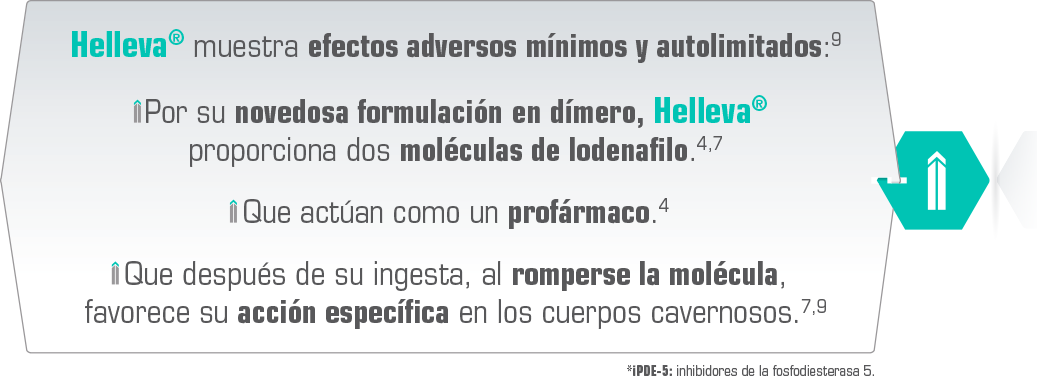
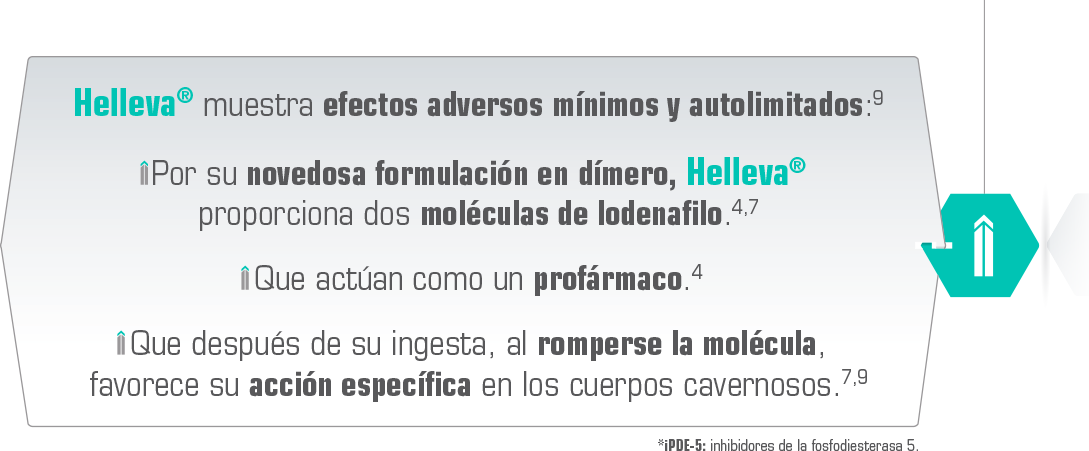
Slide 4 cambios

diff --git a/css/delays.css b/css/delays.css
@@ -110,15 +110,28 @@
 	-o-animation-delay: 3s;
 	animation-delay: 3s;
 }
-#img5, #img8, #img24, #img29{
+#img5, #img8,#img29{
 	webkit-animation-delay: 3.5s;
 	-o-animation-delay: 3.5s;
 	animation-delay: 3.5s;
 }
-#img16, #img23{
+#img24{
+	webkit-animation-delay: 3.5s;
+	-o-animation-delay: 3.5s;
+	animation-delay: 3.5s;
+	animation-duration: 1s;
+}
+#img16{
 	webkit-animation-delay: 4.1s;
 	-o-animation-delay: 4.1s;
 	animation-delay: 4.1s;
+}
+
+#img23{
+	webkit-animation-delay: 4.1s;
+	-o-animation-delay: 4.1s;
+	animation-delay: 4.1s;
+	animation-duration: 5s;
 }
 #img17{
 	webkit-animation-delay: 3.5s;

diff --git a/slide_4.html b/slide_4.html
@@ -29,7 +29,7 @@
     <div id="img22" class="animated fadeInLeft"><img src="Slide4/img01.png" style="width:67.5px; height:98.5px"></div>
 
 
-    <div id="img23" class="animated fadeInLeft"><img src="Slide4/img02.png" style="width:484px; height:95.5px"></div>
+    <div id="img23" class="animated fadeIn"><img src="Slide4/img02.png" style="width:484px; height:95.5px"></div>
 
     
 

diff --git a/css/main.css b/css/main.css
@@ -198,19 +198,19 @@ body{
 
 #img25{
 	position: absolute;
-    top: 100px;
+    top: 72px;
     left: 271px;
 }
 
 #img26{
 	position: absolute;
-    top: 277px;
-    left: 303px;
+    top: 249px;
+    left: 59px;
 }
 #img27{
 	position: absolute;
-    top: 390px;
-    left: 244px;
+    top: 350px;
+    left: 488px;
 }
 #img22{
 	position: absolute;
